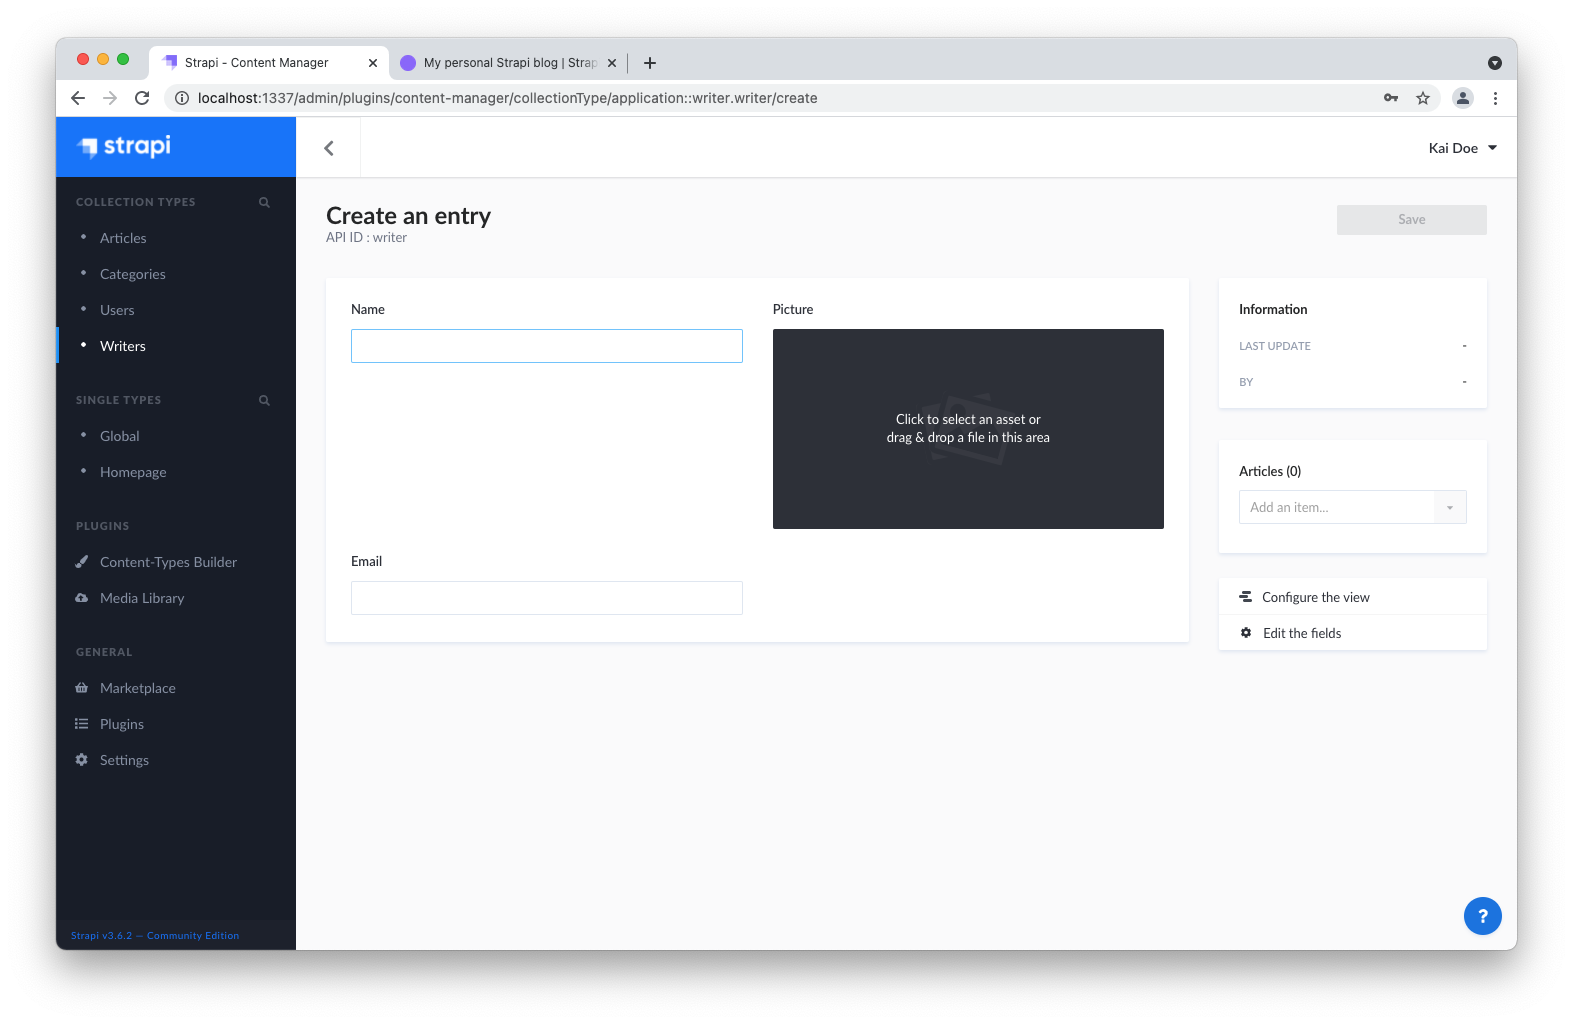
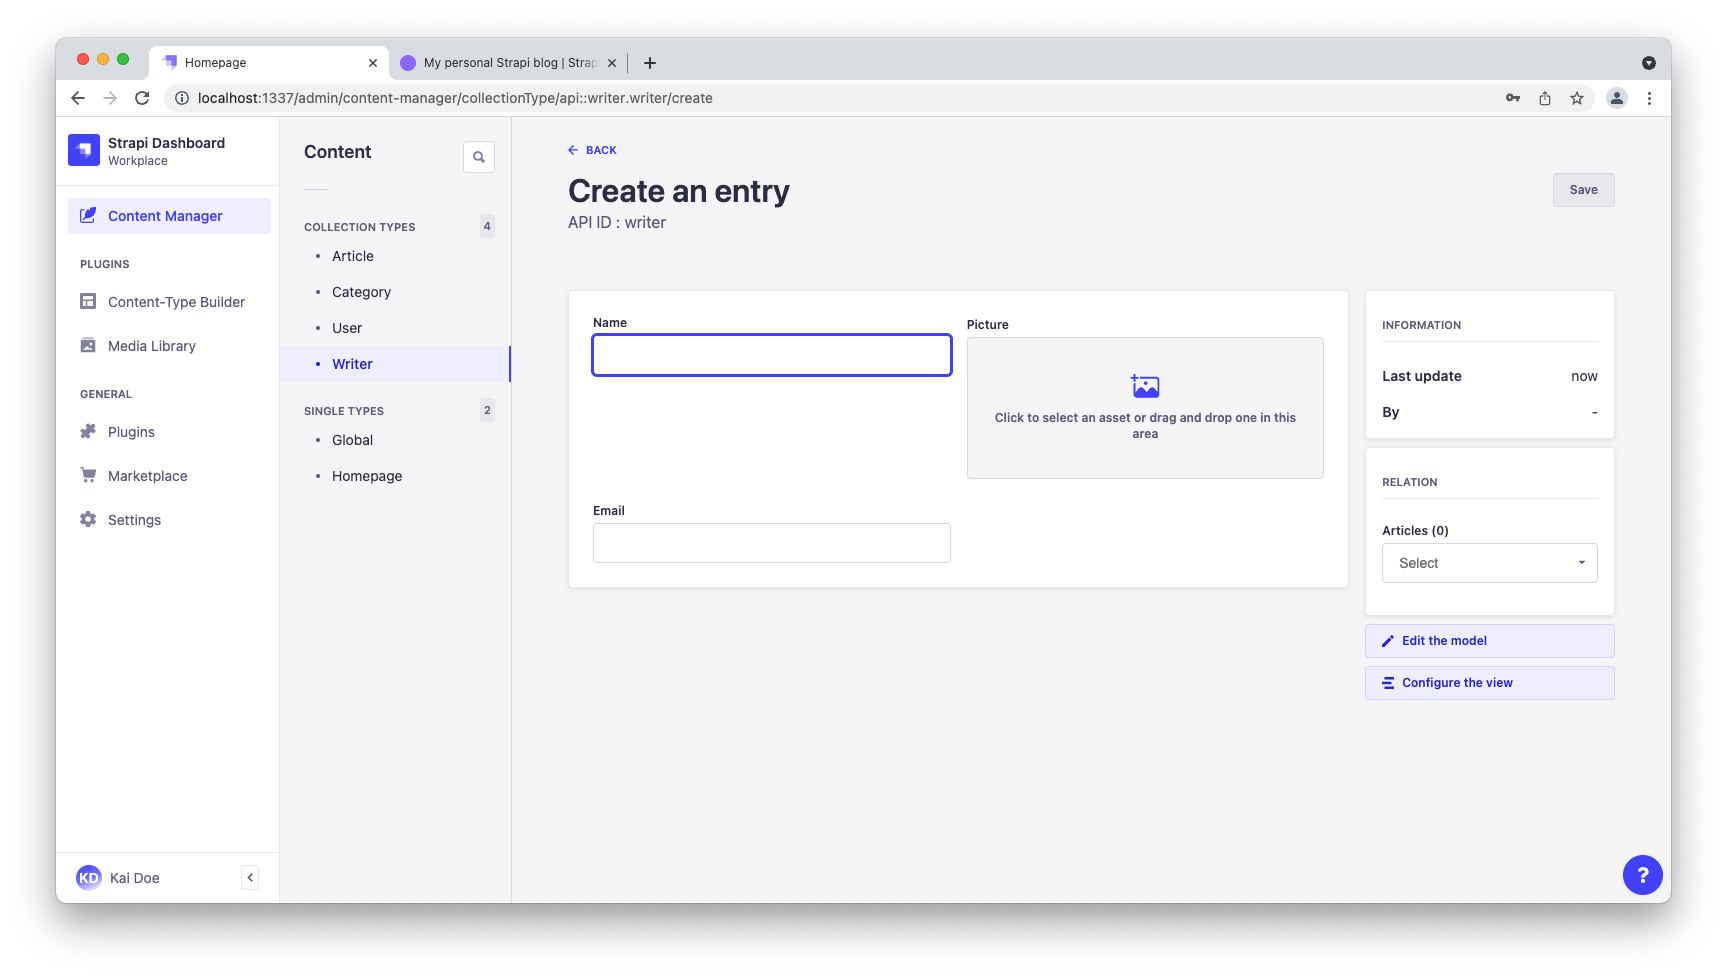
Fully update Quick Start Guide (starters path rework + update hands-on)

diff --git a/docs/developer-docs/latest/getting-started/quick-start.md b/docs/developer-docs/latest/getting-started/quick-start.md
@@ -157,7 +157,7 @@ The Content-Type Builder plugin helps you create your data structure. When creat
 
 Your restaurants directory will eventually include many restaurants, so we need to create a "Restaurant" collection type. Then we can describe the fields to display when adding a new restaurant entry:
 
-1. Go to [Plugins > Content-Type Builder](http://localhost:1337/admin/plugins/content-type-builder) in the main navigation.
+1. Go to Plugins ![Content-Type Builder icon](../assets/quick-start-guide/icons/content_types_builder.svg) [Content-Type Builder](http://localhost:1337/admin/plugins/content-type-builder) in the main navigation.
 2. Click on **Create new collection type**.
 3. Type `Restaurant` for the _Display name_, and click **Continue**.  
 4. Click the Text field.
@@ -170,13 +170,13 @@ Your restaurants directory will eventually include many restaurants, so we need 
 
 ![GIF: Create Restaurant collection type in Content-Type Builder](../assets/quick-start-guide/qsg-handson-restaurant.gif)
 
-Once Strapi has restarted, "Restaurant" is listed under Content Manager > Collection Types in the main navigation. Wow, you have just created your very first content type! It was so cool — let's create another one right now, just for pleasure.
+Once Strapi has restarted, "Restaurant" is listed under ![Content Manager icon](../assets/quick-start-guide/icons/content_manager.svg) Content Manager > Collection types in the navigation. Wow, you have just created your very first content type! It was so cool — let's create another one right now, just for pleasure.
 
 #### Create a "Category" collection type
 
 It would help getting a bit more organized if our restaurants directory had some categories. Let's create a "Category" collection type:
 
-1. Go to [Plugins > Content-Type Builder](http://localhost:1337/admin/plugins/content-type-builder) in the main navigation.
+1. Go to Plugins ![Content-Type Builder icon](../assets/quick-start-guide/icons/content_types_builder.svg) [Content-Type Builder](http://localhost:1337/admin/plugins/content-type-builder) in the main navigation.
 2. Click on **Create new collection type**.
 3. Type `Category` for the _Display name_, and click **Continue**.
 4. Click the Text field.
@@ -197,7 +197,7 @@ Now that we have created a basic data structure with 2 collection types, "Restau
 
 #### Create an entry for the "Restaurant" collection type
 
-1. Go to [Content Manager > Collection types - Restaurant](http://localhost:1337/admin/content-manager/collectionType/api::restaurant.restaurant) in the main navigation.
+1. Go to ![Content Manager icon](../assets/quick-start-guide/icons/content_manager.svg) [Content Manager > Collection types - Restaurant](http://localhost:1337/admin/content-manager/collectionType/api::restaurant.restaurant) in the navigation.
 2. Click on **Add new entry**.
 3. Type the name of your favorite local restaurant in the _Name_ field. Let's say it's `Biscotte Restaurant`.
 4. In the _Description_ field, write a few words about it. If you're lacking some inspiration, you can use `Welcome to Biscotte restaurant! Restaurant Biscotte offers a cuisine based on fresh, quality products, often local, organic when possible, and always produced by passionate producers.`
@@ -205,11 +205,11 @@ Now that we have created a basic data structure with 2 collection types, "Restau
 
 ![Screenshot: Biscotte Restaurant in Content Manager](../assets/quick-start-guide/qsg-handson-part2-03-restaurant.png)
 
-The restaurant is now listed in the [Collection types > Restaurants](http://localhost:1337/admin/content-manager/collectionType/api::restaurant.restaurant) view.
+The restaurant is now listed in the [Collection types - Restaurant](http://localhost:1337/admin/content-manager/collectionType/api::restaurant.restaurant) view.
 
 #### Add Categories
 
-Let's go to [Content Manager > Collection types - Category](http://localhost:1337/admin/content-manager/collectionType/api::category.category) and create 2 categories:
+Let's go to ![Content Manager icon](../assets/quick-start-guide/icons/content_manager.svg) [Content Manager > Collection types - Category](http://localhost:1337/admin/content-manager/collectionType/api::category.category) and create 2 categories:
 
 1. Click on **Add new entry**.
 2. Type `French Food` in the _Name_ field.
@@ -219,11 +219,11 @@ Let's go to [Content Manager > Collection types - Category](http://localhost:133
 
 ![GIF: Add Categories](../assets/quick-start-guide/qsg-handson-categories.gif)
 
-The "French Food" and "Brunch" categories are now listed in the [Collection types > Categories](http://localhost:1337/admin/content-manager/collectionType/api::category.category) view.
+The "French Food" and "Brunch" categories are now listed in the [Collection types - Category](http://localhost:1337/admin/content-manager/collectionType/api::category.category) view.
 
 #### Add a Category to a Restaurant
 
-Go to [Content Manager > Collection types - Restaurant](http://localhost:1337/admin/content-manager/collectionType/api::restaurant.restaurant) in the main navigation, and click on "Biscotte Restaurant".
+Go to ![Content Manager icon](../assets/quick-start-guide/icons/content_manager.svg) [Content Manager > Collection types - Restaurant](http://localhost:1337/admin/content-manager/collectionType/api::restaurant.restaurant) in the navigation, and click on "Biscotte Restaurant".
 
 In the right sidebar, in the **Categories** drop-down list, select "Brunch". Click **Save**.
 
@@ -231,7 +231,7 @@ In the right sidebar, in the **Categories** drop-down list, select "Brunch". Cli
 
 We have just added a restaurant and 2 categories. We now have enough content to consume (pun intended). But first, we need to make sure that the content is publicly accessible through the API:
 
-1. Click on _General > Settings_ at the bottom of the main navigation.
+1. Click on _General ![Settings icon](../assets/quick-start-guide/icons/settings.svg) Settings_ at the bottom of the main navigation.
 2. Under _Users & Permissions Plugin_, choose [Roles](http://localhost:1337/admin/settings/users-permissions/roles).
 3. Click the **Public** role.
 4. Scroll down under _Permissions_.
@@ -246,16 +246,15 @@ We have just added a restaurant and 2 categories. We now have enough content to 
 
 By default, any content you create is saved as a draft. Let's publish our categories and restaurant.
 
-First, navigate to [Content Manager > Collection types > Category](http://localhost:1337/admin/plugins/content-manager/collectionType/application::category.category). From there:
+First, navigate to ![Content Manager icon](../assets/quick-start-guide/icons/content_manager.svg) [Content Manager > Collection types - Category](http://localhost:1337/admin/content-manager/collectionType/api::category.category). From there:
 
 1. Click the "Brunch" entry.
 2. On the next screen, click **Publish**.
 3. In the _Confirmation_ window, click **Yes, publish**.  
 
-
 Then, go back to the Categories list and repeat for the "French Food" category.
 
-Finally, to publish your favorite restaurant, go to [Collection types > Restaurants](http://localhost:1337/admin/content-manager/collectionType/api::restaurant.restaurant), click the restaurant entry, and **Publish** it.
+Finally, to publish your favorite restaurant, go to ![Content Manager icon](../assets/quick-start-guide/icons/content_manager.svg) [Content Manager > Collection types - Restaurant](http://localhost:1337/admin/content-manager/collectionType/api::restaurant.restaurant), click the restaurant entry, and **Publish** it.
 
 ![GIF: Publish content](../assets/quick-start-guide/qsg-handson-publish.gif)
 
@@ -315,26 +314,26 @@ Now that you know the basics of creating and publishing content with Strapi, we 
 
 ## 🚀 Part A: Create a new project with Strapi starters
 
-Strapi [starters](https://strapi.io/starters) are the fastest way to kickstart your project. They cover many use cases (blog, e-commerce solution, corporate website, portfolio) and integrate with various technologies (Gatsby, Gridsome, Next, Nuxt).
+Strapi [starters](https://strapi.io/starters) are the fastest way to kickstart your project. They cover many use cases (blog, e-commerce solution, corporate website, portfolio) and integrate with various technologies (Next, Gridsome, Next, Nuxt).
 
-This quick start guide has been specifically tailored to use the [Gatsby blog starter](https://strapi.io/starters/strapi-starter-gatsby-blog). We highly recommend you to follow along with this starter. Once you get a better understanding of Strapi, you will be able to play with other starters on your own.
+This quick start guide has been specifically tailored to use the [Next blog starter](https://strapi.io/starters/strapi-starter-next-js-blog). We highly recommend you to follow along with this starter. Once you get a better understanding of Strapi, you will be able to play with other starters on your own.
 
 ### Step 1: Run the installation script
 
-To create a [Gatsby](https://www.gatsbyjs.com/) blog using Strapi, run the following command in a terminal:
+To create a [Next](https://nextjs.org/) blog using Strapi, run the following command in a terminal:
 
 :::: tabs card
 ::: tab npm
 
 ```bash
-  npx create-strapi-starter my-project gatsby-blog
+  npx create-strapi-starter my-project next-blog
 ```
 
 :::
 ::: tab yarn
 
 ```bash
-  yarn create strapi-starter my-project gatsby-blog
+  yarn create strapi-starter my-project next-blog
 ```
 
 ::::
@@ -343,15 +342,14 @@ During the installation, when terminal asks `Choose your installation type`: sel
 
 ### Step 2: Register & have a look at your blog
 
-Once the installation is complete, your browser automatically opens 2 tabs:
+Once the installation is complete, your browser automatically opens a tab at ([http://localhost:1337/admin/auth/register-admin](http://localhost:1337/admin/auth/register-admin)). It's for Strapi's admin panel, the back end of your application.
 
-- The first tab ([http://localhost:1337/admin/auth/register-admin](http://localhost:1337/admin/auth/register-admin)) is the admin panel, it's for the back end of your application.
-- The second tab ([http://localhost:8000](http://localhost:8000)) is for the front end of your application, and you can already see the Gatsby blog in action.
+By completing the form in the admin panel tab, you create your own account. Once done, you become the first administator user of this Strapi application. Welcome aboard, commander!
 
-<img src="../assets/quick-start-guide/qsg-starters-part1-01-register.png" alt="" class="image--50" />
-<img src="../assets/quick-start-guide/qsg-starters-part1-01-gatsby_fe.png" alt="" class="image--50 image--right" />
+Now, open [http://localhost:3000](http://localhost:3000) in another tab. This is the front end of your application, and you can already see the Next blog in action.
 
-By completing the form in the first tab, you create your own account. Once done, you become the first administator user of this Strapi application. Welcome aboard, commander!
+<img src="../assets/quick-start-guide/qsg-starters-part1-01-register.png" alt="Register screen" class="image--50" />
+<img src="../assets/quick-start-guide/qsg-starters-part1-01-next_fe.png" alt="Next blog frontend screenshot" class="image--50 image--right" />
 
 :::callout CONGRATULATIONS! 🥳
 Your blog is ready! You can start playing with Strapi and discover the product by yourself using our [User Guide](/user-docs/latest/getting-started/introduction.md), or proceed to part B below.
@@ -373,7 +371,7 @@ If the Strapi server is not already running, in your terminal, `cd` into the `my
 
 You have several ideas for great articles in mind. But first, the world needs to know who you are!
 
-Click on [Collection types > Writers](http://localhost:1337/admin/plugins/content-manager/collectionType/application::writer.writer?page=1&pageSize=10&_sort=name:ASC) in the main navigation, and click the **Add New Writers** button.
+Click on ![Content Manager icon](../assets/quick-start-guide/icons/content_manager.svg) [Content Manager > Collection types - Writer](http://localhost:1337/admin/content-manager/collectionType/api::writer.writer) in the navigation, and click the **Add new entry** button.
 
 ![Screenshot: Create a new writer in admin panel](../assets/quick-start-guide/qsg-starters-part2-01-writer.png)
 
@@ -383,11 +381,11 @@ Click on [Collection types > Writers](http://localhost:1337/admin/plugins/conten
 
 ### Step 2: Write & publish your first article
 
-To write an article, we need to add a new entry to the "Articles" collection type and fill in a few fields.
+To write an article, we need to add a new entry to the "Article" collection type and fill in a few fields.
 
 ![Animated GIF to create an article](../assets/quick-start-guide/qsg-starters-part2-03-write_publish_article.gif)
 
-Click on [Collection types > Articles](http://localhost:1337/admin/plugins/content-manager/collectionType/application::article.article?page=1&pageSize=10&_sort=title:ASC) in the main navigation, and click the **Add New Articles** button.
+Click on ![Content Manager icon](../assets/quick-start-guide/icons/content_manager.svg) [Content Manager > Collection types - Article](http://localhost:1337/admin/content-manager/collectionType/api::article.article) in the main navigation, and click the **Add new entry** button.
 
 #### Give your article a title, a description, and add some content
 
@@ -402,19 +400,21 @@ In the sidebar on the right, choose your name in the _Author_ drop-down list. Yo
 
 While there, you might also want to choose a _Category_ for your article from the list.
 
+🤓 Don't forget to click on **Save** to save the article.
+
 #### Turn your draft into a publication
 
 By default, your new article would be saved as a draft. Let's not be too shy and publish it right away.
 
 To publish an article, click the **Publish** button at the top of the window.
 
-You have just created and published your first article, "Hello World!". You can find it in the [Collection types > Articles](http://localhost:1337/admin/plugins/content-manager/collectionType/application::article.article?page=1&pageSize=10&_sort=id:DESC) view.
+You have just created and published your first article, "Hello World!". You can find it in the ![Content Manager icon](../assets/quick-start-guide/icons/content_manager.svg) [Content Manager > Collection types - Article](http://localhost:1337/admin/content-manager/collectionType/api::article.article?page=1&pageSize=10&sort=id:DESC) view.
 
 ### Step 3: Update the `Homepage` single type
 
 It's time to make this blog a bit more yours.
 
-Click on [Single Types > Homepage](http://localhost:1337/admin/plugins/content-manager/singleType/application::homepage.homepage) in the main navigation. Let's edit this homepage:
+Click on ![Content Manager icon](../assets/quick-start-guide/icons/content_manager.svg) [Content Manager > Single types - Homepage](http://localhost:1337/admin/content-manager/singleType/api::homepage.homepage) in the main navigation. Let's edit this homepage:
 
 1. Replace the image in the _ShareImage_ field.
 2. At the bottom of the page, update the _Title_ to `My Wonderful Strapi Blog` in the _Hero_ field group.
@@ -422,15 +422,15 @@ Click on [Single Types > Homepage](http://localhost:1337/admin/plugins/content-m
 
 ### Step 4: Restart the servers to reflect latest changes
 
-Gatsby is a static-site generator. It means that you need to restart the servers for changes to appear on the front end:
+Next is a static-site generator. It means that you need to restart the servers for changes to appear on the front end:
 
 1. In your terminal, press `Ctrl-C` to stop the servers.
 2. Make sure you are in the `my-project` folder. If not, type `cd my-project` and press Enter.
 3. Restart the servers by typing `npm run develop` (or `yarn develop`) and press Enter.
 
-After a few moments, you should see your blog with its updated title running at [http://localhost:8000](http://localhost:8000). The "Hello World!" article you have just created is also visible at the bottom of the page.
+After a few moments, you should see your blog with its updated title running at [http://localhost:3000](http://localhost:3000). The "Hello World!" article you have just created is also visible at the bottom of the page.
 
-![GIF: Updated Gatsby blog front end](../assets/quick-start-guide/qsg-starters-part2-04-restart_servers.gif)
+![GIF: Updated Next blog front end](../assets/quick-start-guide/qsg-starters-part2-04-restart_servers.gif)
 
 :::callout CONGRATULATIONS! 🥳
 Now you know how to use Strapi to create and update your blog. Keep on creating amazing content!
